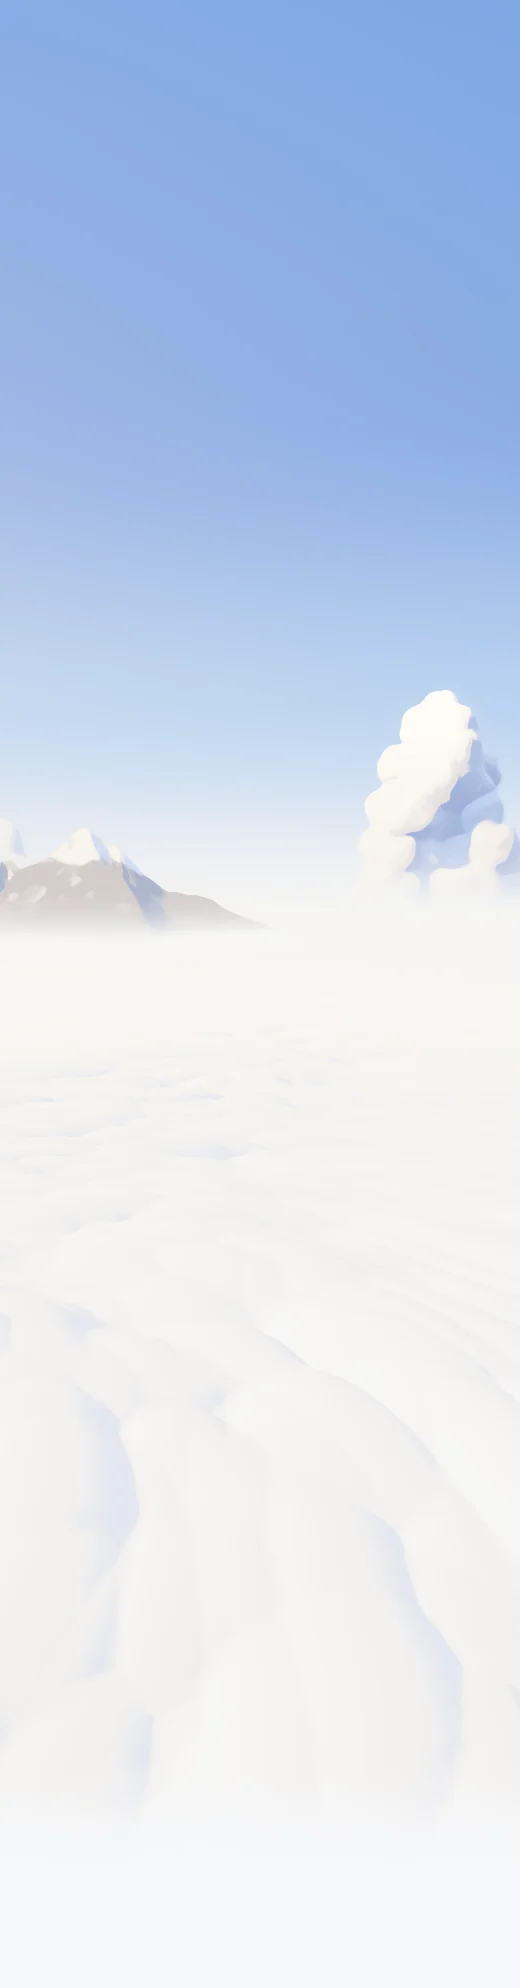
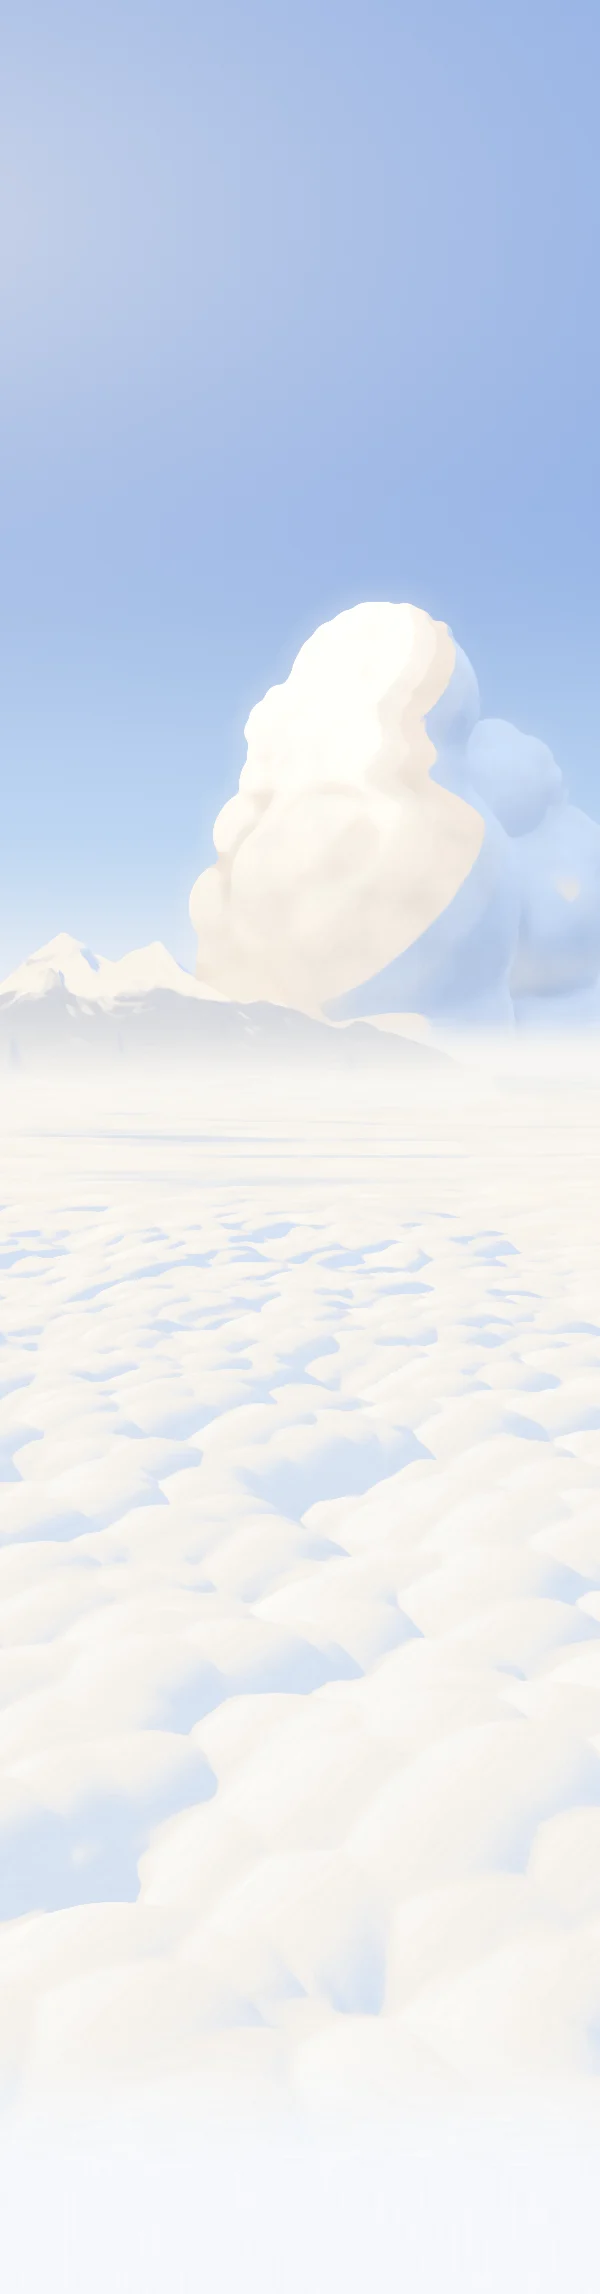
WIP: hero refine round 1
Checkpoint while the hero is being refined from the judges' notes.

Claude-Session: https://claude.ai/code/session_01WzuXxBvKBCaxNgCh2gAtvf

diff --git a/landing/js/art/sky.js b/landing/js/art/sky.js
@@ -61,6 +61,7 @@ uniform vec3 uSun;
 uniform vec3 uSeaSun;
 uniform vec4 uGlow;           // sun glow centre (world), glow amount, horizon band amount
 uniform vec4 uMood;           // x: stars, y: cloud haze lift, z: land haze, w: sea brightness
+uniform float uTex;           // strength of the paint's body in the clouds
 uniform float uTerm;          // how far the cloud terminator follows the single masses (1) or the whole form (0)
 uniform vec3 uPal[${PAL.length}];
 ${palDefines}
@@ -282,6 +283,10 @@ vec3 shadeCloud(vec3 p, vec2 w){
   col = mix(col, P_clRim, sil * (1.0 - lit) * 0.55);
   col *= mix(vec3(0.92, 0.94, 0.98), vec3(1.0), mix(ao, 1.0, lit * 0.8 + 0.2));
   gEdge = sil * sil * (1.0 - lit);
+  // a little body in the paint: soft value variation across each plane, which the brush pass
+  // turns into strokes that follow the form (never strong enough to make islands)
+  float tex = (dome(p * 0.42 + vec3(0.13, 0.71, 0.37)) - 0.62) * 0.7 + (dome(p * 1.1 + vec3(0.51, 0.23, 0.9)) - 0.62) * 0.3;
+  col *= 1.0 + tex * mix(0.1, 0.07, top) * uTex;
   vec3 c = toLin(col);
   float low = 1.0 - smoothstep(-0.6, 3.2, p.y);
   c = mix(c, skyCol(w), clamp(gAttr.x + low * 0.14 + uMood.y, 0.0, 0.92));
@@ -320,8 +325,8 @@ vec4 cloudLayer(vec2 fc, vec2 w, float pix){
   if (!hit && minD > 0.16) return vec4(0.0);
   vec3 c = shadeCloud(hit ? p : pMin, w);
   // found edges where the light is, lost edges in shadow and in the lower body
-  float lowB = 1.0 - smoothstep(gAttr.y + 0.6, gAttr.w - 0.4, pMin.y);
-  float soft = mix(pix * 1.1, pix * 2.6 + 0.035, 1.0 - gLit) + lowB * (0.16 + pix * 3.0);
+  float lowB = 1.0 - smoothstep(gAttr.y + 0.4, gAttr.y + 1.8, pMin.y);
+  float soft = mix(pix * 1.1, pix * 2.4 + 0.025, 1.0 - gLit) + lowB * (0.09 + pix * 2.0);
   float cov = hit ? 1.0 : 1.0 - smoothstep(0.0, soft, minD);
   c = mix(c, skyCol(w), gEdge * 0.28);
   cov *= smoothstep(-0.05, 0.6, w.y);
@@ -339,7 +344,8 @@ float peakField(vec2 q){
     float r2 = dot(d, d);
     if (r2 > 6.0) continue;
     float r = sqrt(r2);
-    float th = atan(d.y, d.x) + (tn(q * 0.09 + float(i) * 3.71) * 0.5) * pb.w;
+    // the aretes and gullies wander as they fall, so no line runs ruler-straight down a face
+    float th = atan(d.y, d.x) + (tn(q * 0.09 + float(i) * 3.71) * 0.5 + tn(q * 0.31 + float(i) * 1.37) * 0.22 * r) * pb.w;
     float g = abs(sin(0.5 * pb.x * (th - pb.y)));
     float lin = r * (0.72 + pb.z * g);
     // the foot drops away steeply, so each range rises straight out of the cloud sea
@@ -404,9 +410,10 @@ vec3 landShade(vec3 p, float t, vec2 w){
 
   // aerial perspective, and the sunlit haze of the sea swallowing the foot of the range
   float hzA = 0.12 + (1.0 - exp(-t * 0.0048));
-  float low = 1.0 - smoothstep(uSea.x, uSea.x + 6.5, h0);
+  float low = 1.0 - smoothstep(uSea.x, uSea.x + 9.5, h0);
   hzA = clamp(hzA + low * low * 0.95 + uMood.z, 0.0, 1.0);
-  vec3 hazeC = mix(skyCol(vec2(w.x, max(w.y, 0.0) * 0.6)), toLin(P_haze), 0.6 * low + 0.15);
+  // the air in front of the range is the sky's own colour, cool and light, warming only at the foot
+  vec3 hazeC = mix(skyCol(vec2(w.x, max(w.y, 0.0) * 0.75)), toLin(P_haze), 0.45 * low * low + 0.08);
   return mix(col, hazeC, hzA);
 }
 
@@ -600,6 +607,7 @@ uniform vec2 uOrigin;   // this canvas inside the composition, in pixels from th
 uniform vec2 uFull;
 uniform vec3 uFrame;    // aspect, horizon, span
 uniform float uStars;
+uniform float uGrain;   // strength of the brush grain laid along the strokes
 out vec4 o;
 
 float hash12(vec2 p){
@@ -607,6 +615,13 @@ float hash12(vec2 p){
   v = v * 1664525u + 1013904223u; v.x += v.y * 1664525u; v.y += v.x * 1664525u;
   v ^= v >> 16u; v.x += v.y * 1664525u;
   return float(v.x & 65535u) / 65535.0;
+}
+
+float vnoise(vec2 q){
+  vec2 i = floor(q), f = fract(q);
+  f = f * f * (3.0 - 2.0 * f);
+  float a = hash12(i), b = hash12(i + vec2(1.0, 0.0)), c = hash12(i + vec2(0.0, 1.0)), d = hash12(i + vec2(1.0, 1.0));
+  return mix(mix(a, b, f.x), mix(c, d, f.x), f.y);
 }
 
 void main(){
@@ -675,6 +690,17 @@ void main(){
   }
   vec3 painted = acc.w > 0.0 ? acc.rgb / acc.w : src.rgb;
   vec3 col = mix(src.rgb, painted, uMix);
+  // brush grain: fine noise smeared along the stroke direction, sized in composition units so
+  // every resolution gets the same strokes; only on painted forms, strongest where they are flat
+  if (uGrain > 0.0 && src.a > 0.0) {
+    float cell = uFull.y * 0.0012;
+    vec2 fp = gl_FragCoord.xy + uOrigin;
+    vec2 dir = t * cell * 1.3;
+    float g = 0.0;
+    for (int k = -5; k <= 5; k++) g += vnoise((fp + dir * float(k)) / cell);
+    g = g / 11.0 - 0.5;
+    col *= 1.0 + g * uGrain * src.a * (0.6 + 0.4 * A);
+  }
   // stars, after the paint so the brush cannot wipe them out; only in open sky
   if (uStars > 0.0) {
     vec2 fp = gl_FragCoord.xy + uOrigin;
@@ -779,7 +805,7 @@ export const LIGHTS = {
       clLit: [0.98, 0.962, 0.935], clLit2: [1.0, 0.99, 0.968], clHalf: [0.93, 0.893, 0.855],
       clShUp: [0.78, 0.85, 0.95], clShDn: [0.66, 0.74, 0.87], clRefl: [0.86, 0.85, 0.835], clRim: [0.86, 0.91, 0.98],
       seaLit: [0.975, 0.952, 0.92], seaLit2: [1.0, 0.988, 0.965], seaShLo: [0.64, 0.74, 0.88], seaShHi: [0.78, 0.85, 0.95],
-      rockLit: [0.84, 0.82, 0.8], rockSh: [0.56, 0.66, 0.83],
+      rockLit: [0.8, 0.81, 0.84], rockSh: [0.62, 0.7, 0.85],
       snowLit: [1.0, 0.965, 0.915], snowSh: [0.66, 0.75, 0.91], snowShUp: [0.78, 0.85, 0.97],
       haze: [0.985, 0.97, 0.94], bg: [246 / 255, 248 / 255, 251 / 255], halo: [0.985, 0.97, 0.94],
     },
@@ -875,9 +901,9 @@ export const tower = (x, k = 1) => ({
 // The Hisor range as it is seen from Dushanbe: a long wall with a double summit, stepping
 // down toward the valley on the right.
 const MASSIF = [
-  [-0.5, 1.72, 62, 1.75, 3, 0.9, 0.25, 1], [0.6, 1.56, 63, 1.6, 3, 1.9, 0.25, 1],
-  [-1.95, 1.22, 64, 1.9, 3, 2.4, 0.3, 1], [-3.4, 1.05, 66, 2.0, 3, 0.3, 0.3, 1],
-  [1.9, 0.86, 66, 1.6, 3, 1.1, 0.3, 1], [3.05, 0.45, 70, 1.5, 3, 2.7, 0.3, 1],
+  [-0.5, 1.4, 62, 1.6, 3, 0.9, 0.22, 1.4], [0.6, 1.27, 63, 1.5, 3, 1.9, 0.22, 1.4],
+  [-1.95, 1.0, 64, 1.8, 3, 2.4, 0.26, 1.4], [-3.4, 0.86, 66, 1.9, 3, 0.3, 0.26, 1.4],
+  [1.9, 0.7, 66, 1.5, 3, 1.1, 0.26, 1.4], [3.05, 0.37, 70, 1.4, 3, 2.7, 0.26, 1.4],
 ];
 /** The massif with its main summit at x, scaled by k. */
 export const massif = (x, k = 1) => MASSIF.map(([sx, sh, d, sr, ...rest]) => [x + sx * k, sh * k, d, sr * k, ...rest]);
@@ -907,12 +933,14 @@ const tablet = {
   fade: -8.9,
   sea: [-2.2, 1.5, 0.12],
   paint: 0.0032,
-  clouds: [farCloud(-5.9, 0.85, 0.3), tower(4.05, 0.86)],
-  peaks: massif(-4.3, 0.9),
+  term: 0.5,
+  clouds: [tower(3.45, 0.8)],
+  peaks: massif(-4.0, 0.95),
 };
 
-// Phones: a tall frame. The tower stands on the right behind the end of the copy, its lit side
-// toward the text, and one peak breaks the horizon on the left, so both read in the first screen.
+// Phones: a tall frame and its own framing. The tower rises on the right from the horizon to
+// just under the buttons, its lit side toward the copy, crown whole; the double summit stands
+// whole on the left.
 const phone = {
   ...frame(6.8, 12.0, -14.0),
   light: 'morning',
@@ -920,8 +948,11 @@ const phone = {
   fade: -12.6,
   sea: [-2.2, 1.5, 0.12],
   paint: 0.0026,
-  clouds: [farCloud(-3.7, 0.55, 0.32), tower(2.45, 0.57)],
-  peaks: massif(-2.25, 0.62),
+  term: 0.5,
+  glowAt: [-5.2, 9.5],
+  landHaze: -0.14,
+  clouds: [tower(1.2, 1.22)],
+  peaks: massif(-2.2, 0.95),
 };
 
 export const COMPOSITIONS = { desktop, tablet, phone };
@@ -1159,9 +1190,13 @@ export function bakeSky(canvas, comp, opts = {}) {
   gl.uniform3f(u('uSea'), ...comp.sea);
   gl.uniform3f(u('uSun'), ...pk.sun);
   gl.uniform3f(u('uSeaSun'), ...norm3(light.seaSun || light.sun));
-  gl.uniform4f(u('uGlow'), ...light.glow);
-  gl.uniform4f(u('uMood'), ...(light.mood || [0, 0, 0, 0]));
+  // a narrow frame may pull the glow's centre in so the light from the upper left still reads
+  gl.uniform4f(u('uGlow'), ...(comp.glowAt ? [...comp.glowAt, light.glow[2], light.glow[3]] : light.glow));
+  const mood = (light.mood || [0, 0, 0, 0]).slice();
+  mood[2] += comp.landHaze ?? 0; // a framing may thin the air in front of the range
+  gl.uniform4f(u('uMood'), ...mood);
   gl.uniform1f(u('uTerm'), comp.term ?? 0.5);
+  gl.uniform1f(u('uTex'), comp.tex ?? 1);
   gl.uniform3fv(u('uPal'), new Float32Array(PAL.flatMap((k) => light.pal[k] || [1, 0, 1])));
 
   // passes, each drawn in horizontal strips from the top down
@@ -1178,6 +1213,7 @@ export function bakeSky(canvas, comp, opts = {}) {
         gl.uniform1f(q.u('uHard'), comp.hard ?? 8); gl.uniform1f(q.u('uMix'), comp.paintMix ?? 1);
         gl.uniform2f(q.u('uOrigin'), origin[0], origin[1]); gl.uniform2f(q.u('uFull'), fullW, fullH);
         gl.uniform3f(q.u('uFrame'), comp.aspect, comp.hz, comp.span); gl.uniform1f(q.u('uStars'), (light.mood || [0])[0]);
+        gl.uniform1f(q.u('uGrain'), comp.grain ?? 0.05);
       },
     },
   ];

diff --git a/landing/css/sections/hero.css b/landing/css/sections/hero.css
@@ -74,7 +74,9 @@
   }
 }
 /* lqip:start (written by scripts/bake-art.mjs: a tiny blurred copy of each still) */
[4 lines of base64/hex data omitted]
 /* lqip:end */
 /* the live render covers only the part of the box inside the frame (placed by hero.js) */
 .s-hero__live {
@@ -582,10 +584,10 @@
   box-shadow: 0 2px 6px -2px rgba(42, 91, 255, 0.6);
 }
 
-/* ---------- notification: half over the window, half over the sky ---------- */
+/* ---------- notification: half over the window (over Zarina's free hour), half over the sky ---------- */
 .s-hero__note {
   left: 915px;
-  top: 188px;
+  top: 244px;
   z-index: 4;
   width: 336px;
   display: flex;
@@ -831,14 +833,14 @@
 .s-hero__dash-row b {
   font-weight: 620;
 }
-.s-hero__next {
+.s-hero__upnext {
   margin-top: 12px;
   padding: 0 2px;
 }
-.s-hero__next .ui-label {
+.s-hero__upnext .ui-label {
   margin-bottom: 6px;
 }
-.s-hero__next-row {
+.s-hero__upnext-row {
   display: flex;
   align-items: flex-start;
   gap: 10px;
@@ -847,15 +849,15 @@
   line-height: 1.25;
   box-shadow: 0 -1px 0 var(--line);
 }
-.s-hero__next-row b {
+.s-hero__upnext-row b {
   flex: none;
   width: 34px;
   font-weight: 620;
 }
-.s-hero__next-row span {
+.s-hero__upnext-row span {
   font-weight: 560;
 }
-.s-hero__next-row small {
+.s-hero__upnext-row small {
   display: block;
   margin-top: 1px;
   font-size: 11px;
@@ -1158,23 +1160,26 @@
    starts well above the fold. */
 @media (min-width: 760px) and (max-height: 820px) {
   .s-hero__frame {
-    padding-top: calc(var(--nav-h) + 18px);
+    padding-top: calc(var(--nav-h) + 10px);
   }
   .s-hero__title {
-    font-size: clamp(2.5rem, 1rem + 3.3vw, 4rem);
+    font-size: clamp(2.5rem, 1rem + 3vw, 3.75rem);
   }
   .s-hero__lead {
-    margin-top: 12px;
-    font-size: 1.125rem;
+    margin-top: 10px;
+    font-size: 1.0625rem;
   }
   .s-hero__actions {
-    margin-top: 20px;
+    margin-top: 16px;
+  }
+  .s-hero__actions .btn {
+    --btn-h: 48px;
   }
   .s-hero__facts {
-    margin-top: 14px;
+    margin-top: 12px;
   }
   .s-hero__stage {
-    margin-top: 30px;
+    margin-top: 24px;
   }
 }
 
@@ -1188,7 +1193,7 @@
   }
   .s-hero__win {
     left: 120px;
-    width: 640px;
+    width: 600px;
   }
   .s-hero__staff,
   .s-hero__sched {
@@ -1209,15 +1214,16 @@
   .s-hero__phone .ui-phone__screen {
     border-radius: 28px;
   }
-  .s-hero__next {
+  .s-hero__upnext {
     display: none;
   }
   .s-hero__tg {
     display: none;
   }
+  /* in the empty afternoon of Farrukh's column, clear of every booking and status */
   .s-hero__note {
-    left: 626px;
-    top: 118px;
+    left: 620px;
+    top: 300px;
     width: 300px;
   }
   .s-hero__comp::before {
@@ -1239,7 +1245,7 @@
   }
   .s-hero__title {
     font-size: clamp(2.375rem, 1.2rem + 5vw, 2.875rem);
-    max-width: 12ch;
+    max-width: 13ch;
     line-height: 1.02;
     text-wrap: balance;
   }
@@ -1291,7 +1297,7 @@
   .s-hero__phone .ui-phone__screen {
     border-radius: 35px;
   }
-  .s-hero__next {
+  .s-hero__upnext {
     display: block;
   }
   .s-hero__tg {

diff --git a/landing/index.html b/landing/index.html
@@ -165,7 +165,7 @@
               </div>
               <div class="s-hero__col" data-person="zarina">
                 <div class="s-hero__bk is-done" style="--s: 0; --d: 1.5"><p><b>Manizha D.</b><span class="ui-status ui-status--paid"><svg class="i"><use href="assets/icons.svg#check-circle" /></svg>Paid</span></p><small>09:00 Gel manicure</small></div>
-                <div class="s-hero__bk" style="--s: 2.5; --d: 1.5"><p><b>Dilnoza K.</b><span class="ui-status ui-status--confirmed"><svg class="i"><use href="assets/icons.svg#calendar-check" /></svg>Confirmed</span></p><small>11:30 Gel manicure</small></div>
+                <div class="s-hero__bk" style="--s: 3.5; --d: 1.5"><p><b>Dilnoza K.</b><span class="ui-status ui-status--confirmed"><svg class="i"><use href="assets/icons.svg#calendar-check" /></svg>Confirmed</span></p><small>12:30 Gel manicure</small></div>
                 <div class="s-hero__bk" style="--s: 5; --d: 1.5"><p><b>Madina H.</b><span class="ui-status ui-status--waiting"><svg class="i"><use href="assets/icons.svg#hourglass" /></svg>Waiting</span></p><small>14:00 Gel manicure</small></div>
               </div>
               <!-- the time now: the line runs under the bookings, its time sits in the gutter -->
@@ -216,10 +216,10 @@
                 <div class="s-hero__bars"><i style="--v: 0.34"></i><i style="--v: 0.62"></i><i style="--v: 0.8"></i><i style="--v: 0.56"></i><i style="--v: 0.7"></i><i style="--v: 0.92"></i><i style="--v: 0.48"></i><i class="is-now" style="--v: 0.3"></i></div>
               </div>
               <div class="s-hero__dash-row"><span class="ui-label">Cash in till</span><b>2,180 TJS</b></div>
-              <div class="s-hero__next">
+              <div class="s-hero__upnext">
                 <p class="ui-label">Next up</p>
-                <p class="s-hero__next-row"><b>11:30</b><span>Dilnoza K.<small>Gel manicure, Zarina</small></span></p>
-                <p class="s-hero__next-row"><b>13:00</b><span>Parvina A.<small>Keratin, Malika</small></span></p>
+                <p class="s-hero__upnext-row"><b>12:30</b><span>Dilnoza K.<small>Gel manicure, Zarina</small></span></p>
+                <p class="s-hero__upnext-row"><b>13:00</b><span>Parvina A.<small>Keratin, Malika</small></span></p>
               </div>
             </div>
             <div class="s-hero__tabbar">

diff --git a/src/partials/hero.html b/src/partials/hero.html
@@ -93,7 +93,7 @@
               </div>
               <div class="s-hero__col" data-person="zarina">
                 <div class="s-hero__bk is-done" style="--s: 0; --d: 1.5"><p><b>Manizha D.</b><span class="ui-status ui-status--paid"><svg class="i"><use href="assets/icons.svg#check-circle" /></svg>Paid</span></p><small>09:00 Gel manicure</small></div>
-                <div class="s-hero__bk" style="--s: 2.5; --d: 1.5"><p><b>Dilnoza K.</b><span class="ui-status ui-status--confirmed"><svg class="i"><use href="assets/icons.svg#calendar-check" /></svg>Confirmed</span></p><small>11:30 Gel manicure</small></div>
+                <div class="s-hero__bk" style="--s: 3.5; --d: 1.5"><p><b>Dilnoza K.</b><span class="ui-status ui-status--confirmed"><svg class="i"><use href="assets/icons.svg#calendar-check" /></svg>Confirmed</span></p><small>12:30 Gel manicure</small></div>
                 <div class="s-hero__bk" style="--s: 5; --d: 1.5"><p><b>Madina H.</b><span class="ui-status ui-status--waiting"><svg class="i"><use href="assets/icons.svg#hourglass" /></svg>Waiting</span></p><small>14:00 Gel manicure</small></div>
               </div>
               <!-- the time now: the line runs under the bookings, its time sits in the gutter -->
@@ -144,10 +144,10 @@
                 <div class="s-hero__bars"><i style="--v: 0.34"></i><i style="--v: 0.62"></i><i style="--v: 0.8"></i><i style="--v: 0.56"></i><i style="--v: 0.7"></i><i style="--v: 0.92"></i><i style="--v: 0.48"></i><i class="is-now" style="--v: 0.3"></i></div>
               </div>
               <div class="s-hero__dash-row"><span class="ui-label">Cash in till</span><b>2,180 TJS</b></div>
-              <div class="s-hero__next">
+              <div class="s-hero__upnext">
                 <p class="ui-label">Next up</p>
-                <p class="s-hero__next-row"><b>11:30</b><span>Dilnoza K.<small>Gel manicure, Zarina</small></span></p>
-                <p class="s-hero__next-row"><b>13:00</b><span>Parvina A.<small>Keratin, Malika</small></span></p>
+                <p class="s-hero__upnext-row"><b>12:30</b><span>Dilnoza K.<small>Gel manicure, Zarina</small></span></p>
+                <p class="s-hero__upnext-row"><b>13:00</b><span>Parvina A.<small>Keratin, Malika</small></span></p>
               </div>
             </div>
             <div class="s-hero__tabbar">

diff --git a/landing/css/sections/nav.css b/landing/css/sections/nav.css
@@ -62,9 +62,10 @@
   gap: 2px;
   padding: 4px;
   border-radius: var(--r-pill);
-  background: rgba(255, 255, 255, 0.44);
-  -webkit-backdrop-filter: blur(14px) saturate(1.5);
-  backdrop-filter: blur(14px) saturate(1.5);
+  /* clear glass: little saturation, so the sky behind it reads as light, not as a tinted plastic */
+  background: rgba(255, 255, 255, 0.5);
+  -webkit-backdrop-filter: blur(14px) saturate(1.08);
+  backdrop-filter: blur(14px) saturate(1.08);
   box-shadow:
     inset 0 1px 0 rgba(255, 255, 255, 0.9),
     inset 0 0 0 1px rgba(255, 255, 255, 0.45),
@@ -109,9 +110,9 @@
   height: 40px;
   border-radius: var(--r-pill);
   color: var(--ink);
-  background: rgba(255, 255, 255, 0.5);
-  -webkit-backdrop-filter: blur(14px) saturate(1.5);
-  backdrop-filter: blur(14px) saturate(1.5);
+  background: rgba(255, 255, 255, 0.55);
+  -webkit-backdrop-filter: blur(14px) saturate(1.08);
+  backdrop-filter: blur(14px) saturate(1.08);
   box-shadow: inset 0 1px 0 rgba(255, 255, 255, 0.9), 0 0 0 1px rgba(28, 46, 92, 0.06), 0 6px 16px -10px rgba(28, 62, 160, 0.3);
   transition: transform var(--dur-press) var(--ease-out), background-color 200ms ease;
 }
